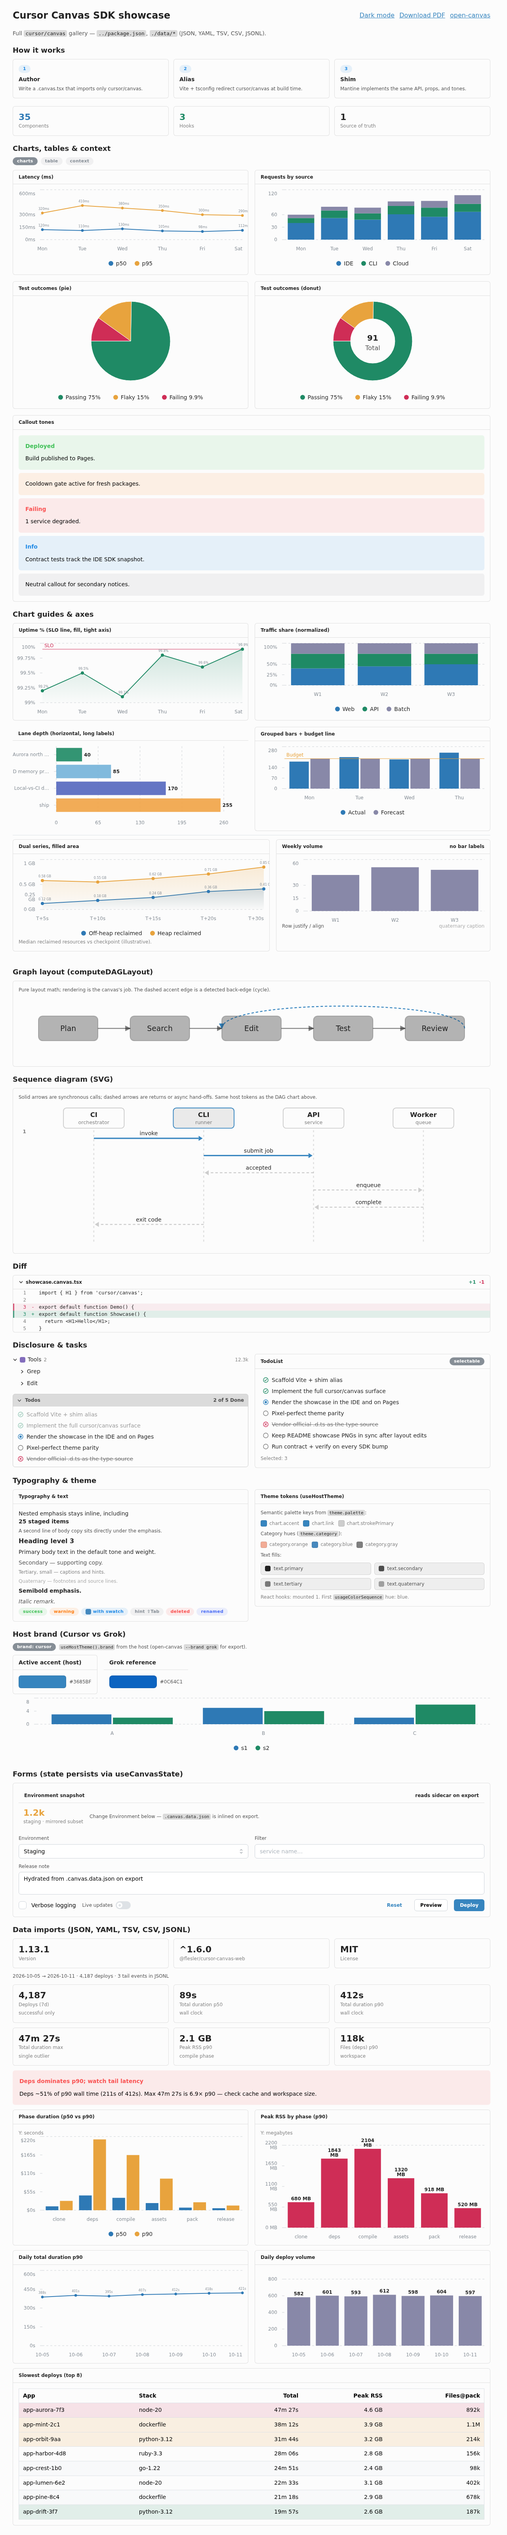
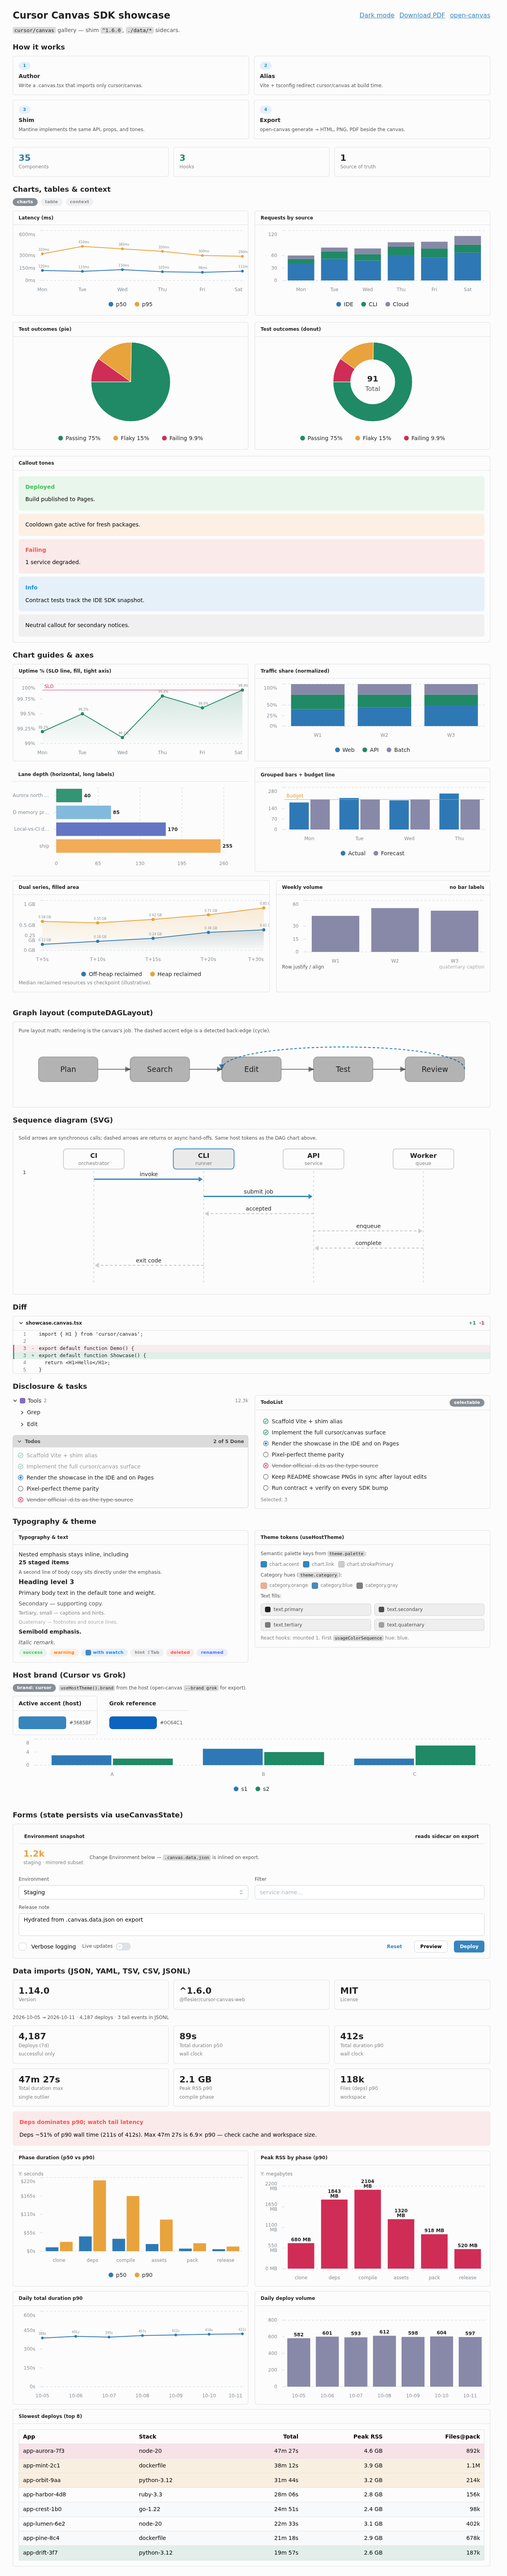
Tighten showcase layout and exercise DOM-friendly sections

diff --git a/example/showcase.canvas.tsx b/example/showcase.canvas.tsx
@@ -54,8 +54,6 @@ const OUTLIER_TABLE = {
   ]),
 }
 
-/* --------------------------------------------------------------- demo data */
-
 const LATENCY: ChartSeries[] = [
   { name: 'p50', data: [120, 110, 130, 105, 98, 112], tone: 'info' },
   { name: 'p95', data: [320, 410, 380, 350, 300, 290], tone: 'warning' },
@@ -215,24 +213,24 @@ const DAG = computeDAGLayout({
   padding: 32,
 })
 
-/* -------------------------------------------------------------- subsections */
-
 function Section({
   title,
   id,
+  'aria-label': ariaLabel,
   children,
 }: {
-  title: string;
+  title?: string;
   id?: string;
+  'aria-label'?: string;
   children: StackProps['children']
 }) {
   return (
-    <div id={id}>
+    <section id={id} aria-label={ariaLabel}>
       <Stack gap={10}>
-        <H2>{title}</H2>
+        {title ? <H2>{title}</H2> : null}
         {children}
       </Stack>
-    </div>
+    </section>
   )
 }
 
@@ -499,8 +497,6 @@ function SequenceDiagram() {
   )
 }
 
-/* --------------------------------------------------------------------- main */
-
 export default function ShowcaseCanvas() {
   const dispatch = useCanvasAction()
   const [env, setEnv] = useCanvasState('show.env', 'production')
@@ -570,23 +566,24 @@ export default function ShowcaseCanvas() {
   return (
     <Stack gap={20}>
       <style>{'@media print { .hide-for-pdf { display: none !important; } }'}</style>
-      {/* Header --------------------------------------------------------- */}
-      <Row gap={12} align="center">
-        <H1>Cursor Canvas SDK showcase</H1>
-        <Spacer />
-        <ExportThemeToggleLink />
-        <Link href={repoUrl}>open-canvas</Link>
-      </Row>
+      <Section id="section-intro">
+        <Stack gap={12}>
+          <Row gap={12} align="center">
+            <H1>Cursor Canvas SDK showcase</H1>
+            <Spacer />
+            <ExportThemeToggleLink />
+            <Link href={repoUrl}>open-canvas</Link>
+          </Row>
+          <Text tone="secondary">
+            <Code>cursor/canvas</Code> gallery — shim <Code>{shimDep}</Code>,{' '}
+            <Code>./data/*</Code> sidecars.
+          </Text>
+        </Stack>
+      </Section>
 
-      <Text tone="secondary">
-        Full <Code>cursor/canvas</Code> gallery — <Code>../package.json</Code>,{' '}
-        <Code>./data/*</Code> (JSON, YAML, TSV, CSV, JSONL).
-      </Text>
-
-      {/* How it works (stepped explanation, not a callout) -------------- */}
-      <Section title="How it works">
-        <Grid columns={3} gap={12}>
-          {STEPS.slice(0, 3).map(step => (
+      <Section id="section-how-it-works" title="How it works">
+        <Grid columns={2} gap={12}>
+          {STEPS.map(step => (
             <Card key={step.n}>
               <CardBody>
                 <Stack gap={6}>
@@ -602,31 +599,36 @@ export default function ShowcaseCanvas() {
         </Grid>
       </Section>
 
-      {/* Stats ---------------------------------------------------------- */}
-      <Grid columns={3} gap={12}>
-        <Card>
-          <CardBody>
-            <Stat value="35" label="Components" tone="info" />
-          </CardBody>
-        </Card>
-        <Card>
-          <CardBody>
-            <Stat value="3" label="Hooks" tone="success" />
-          </CardBody>
-        </Card>
-        <Card>
-          <CardBody>
-            <Stat value="1" label="Source of truth" />
-          </CardBody>
-        </Card>
-      </Grid>
-
-      {/* Charts, tables & context --------------------------------------- */}
+      <Section id="section-stats" aria-label="SDK surface counts">
+        <Grid columns={3} gap={12}>
+          <Card>
+            <CardBody>
+              <Stat value="35" label="Components" tone="info" />
+            </CardBody>
+          </Card>
+          <Card>
+            <CardBody>
+              <Stat value="3" label="Hooks" tone="success" />
+            </CardBody>
+          </Card>
+          <Card>
+            <CardBody>
+              <Stat value="1" label="Source of truth" />
+            </CardBody>
+          </Card>
+        </Grid>
+      </Section>
       <Section id="section-charts" title="Charts, tables & context">
         <Stack gap={12}>
-          <Row gap={8} wrap>
+          <Row gap={8} wrap className="section-charts-tabs">
             {(['charts', 'table', 'context'] as const).map(key => (
-              <Pill key={key} active={tab === key} onClick={() => setTab(key)}>
+              <Pill
+                key={key}
+                id={`section-charts-tab-${key}`}
+                className="section-charts-tab"
+                active={tab === key}
+                onClick={() => setTab(key)}
+              >
                 {key}
               </Pill>
             ))}
@@ -772,8 +774,7 @@ export default function ShowcaseCanvas() {
         </Stack>
       </Section>
 
-      {/* Chart axis / guides (exercises referenceLines, fill, normalized) */}
-      <Section title="Chart guides & axes">
+      <Section id="section-guides" title="Chart guides & axes">
         <Grid columns={2} gap={16}>
           <Card>
             <CardHeader>Uptime % (SLO line, fill, tight axis)</CardHeader>
@@ -903,8 +904,7 @@ export default function ShowcaseCanvas() {
 
       <div aria-hidden style={{ breakBefore: 'page' }} />
 
-      {/* Graph ---------------------------------------------------------- */}
-      <Section title="Graph layout (computeDAGLayout)">
+      <Section id="section-graph" title="Graph layout (computeDAGLayout)">
         <Card>
           <CardBody>
             <Stack gap={8}>
@@ -918,7 +918,7 @@ export default function ShowcaseCanvas() {
         </Card>
       </Section>
 
-      <Section title="Sequence diagram (SVG)">
+      <Section id="section-sequence" title="Sequence diagram (SVG)">
         <Card>
           <CardBody>
             <Stack gap={8}>
@@ -932,8 +932,7 @@ export default function ShowcaseCanvas() {
         </Card>
       </Section>
 
-      {/* Diff ----------------------------------------------------------- */}
-      <Section title="Diff">
+      <Section id="section-diff" title="Diff">
         <Card collapsible defaultOpen>
           <CardHeader trailing={<DiffStats additions={1} deletions={1} />}>
             showcase.canvas.tsx
@@ -948,8 +947,7 @@ export default function ShowcaseCanvas() {
         </Card>
       </Section>
 
-      {/* Disclosure & tasks -------------------------------------------- */}
-      <Section title="Disclosure & tasks">
+      <Section id="section-tasks" title="Disclosure & tasks">
         <Grid columns={2} gap={16} align="start">
           <Stack gap={8}>
             <CollapsibleSection
@@ -997,8 +995,7 @@ export default function ShowcaseCanvas() {
         </Grid>
       </Section>
 
-      {/* Typography + theme (half width each; stack on narrow viewports) ----- */}
-      <Section title="Typography & theme">
+      <Section id="section-typography" title="Typography & theme">
         <Grid
           columns="repeat(auto-fit, minmax(min(100%, 22rem), 1fr))"
           gap={16}
@@ -1146,7 +1143,7 @@ export default function ShowcaseCanvas() {
         </Grid>
       </Section>
 
-      <Section title="Host brand (Cursor vs Grok)">
+      <Section id="section-brand" title="Host brand (Cursor vs Grok)">
         <Stack gap={10}>
           <Row gap={8} wrap>
             <Pill active={theme.brand === 'cursor'}>brand: {theme.brand}</Pill>
@@ -1214,8 +1211,7 @@ export default function ShowcaseCanvas() {
 
       <div aria-hidden style={{ breakBefore: 'page' }} />
 
-      {/* Forms ---------------------------------------------------------- */}
-      <Section title="Forms (state persists via useCanvasState)">
+      <Section id="section-forms" title="Forms (state persists via useCanvasState)">
         <Card>
           <CardBody>
             <Stack gap={12}>
@@ -1309,7 +1305,7 @@ export default function ShowcaseCanvas() {
         </Card>
       </Section>
 
-      <Section title="Data imports (JSON, YAML, TSV, CSV, JSONL)">
+      <Section id="section-imports" title="Data imports (JSON, YAML, TSV, CSV, JSONL)">
         <Stack gap={12}>
           <Grid columns={3} gap={12}>
             <Card>
